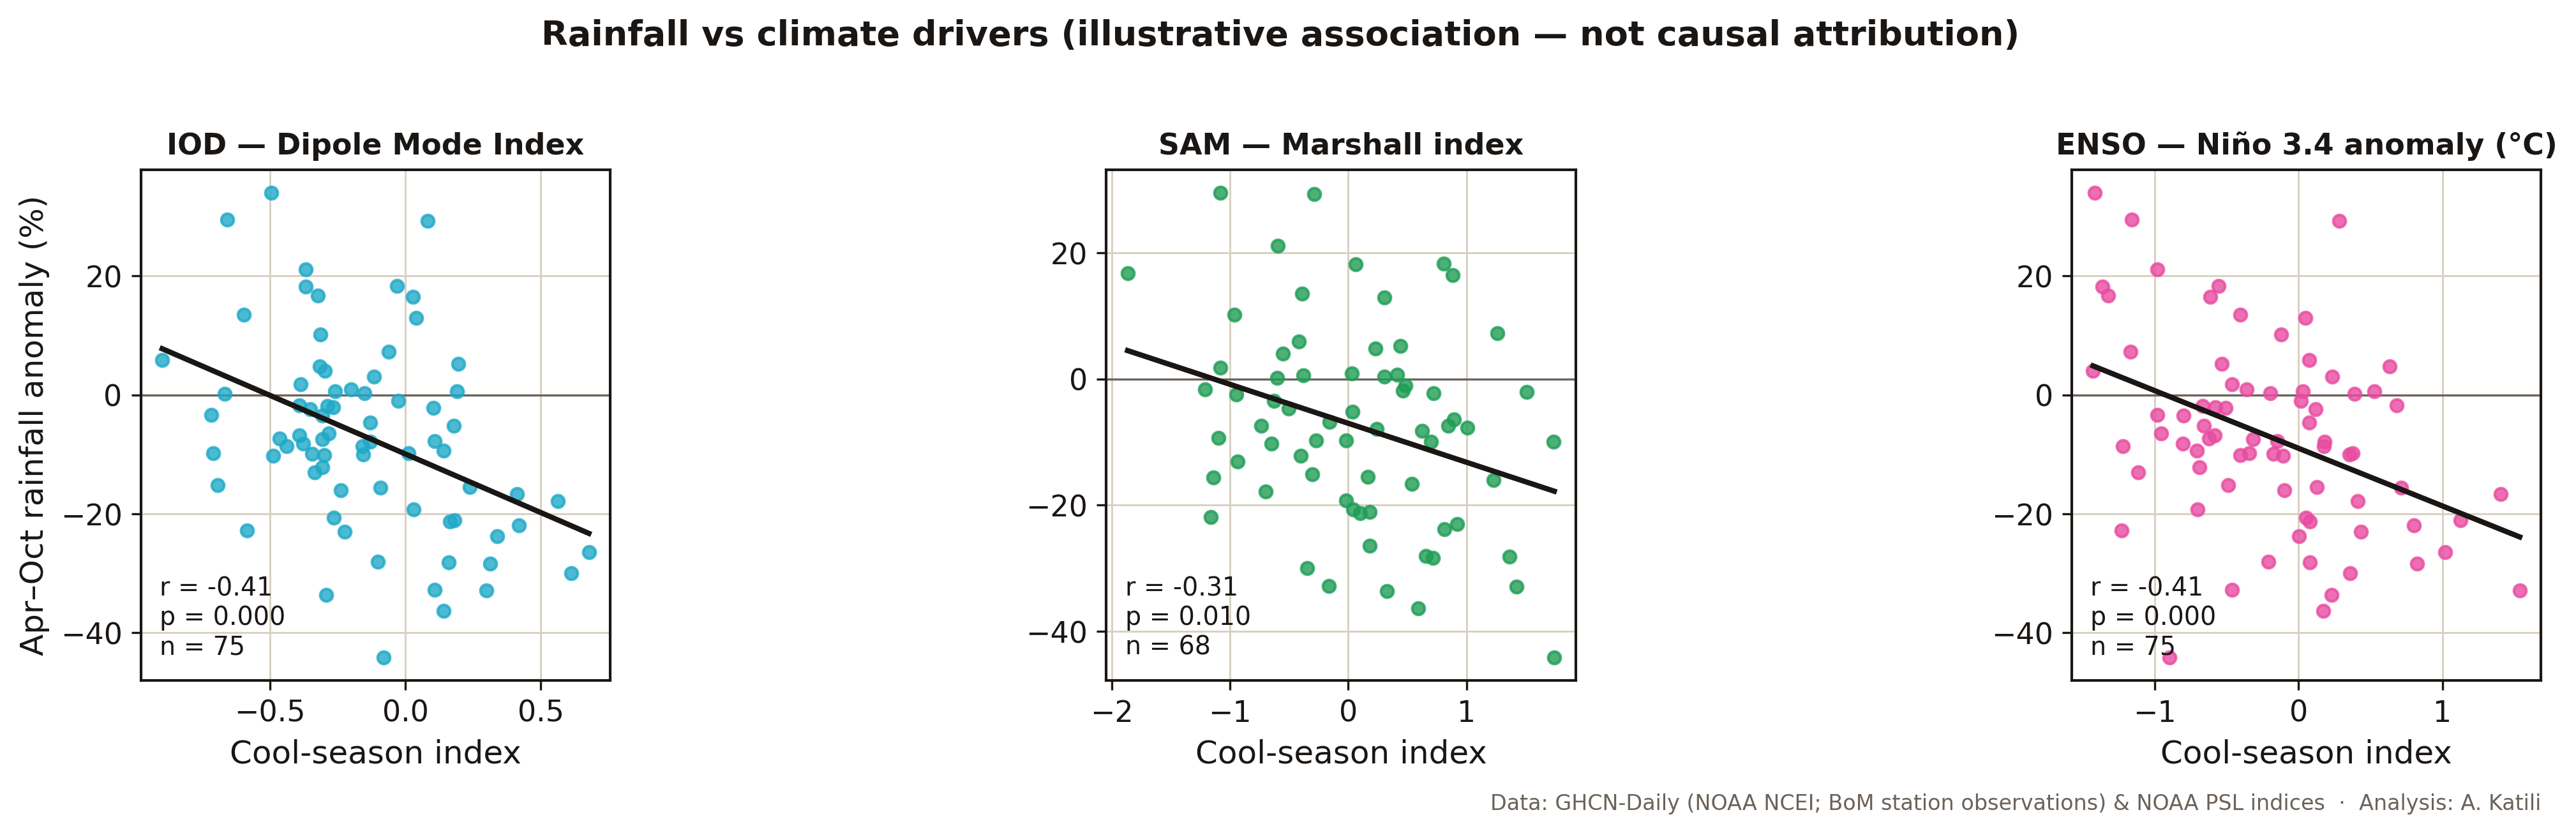
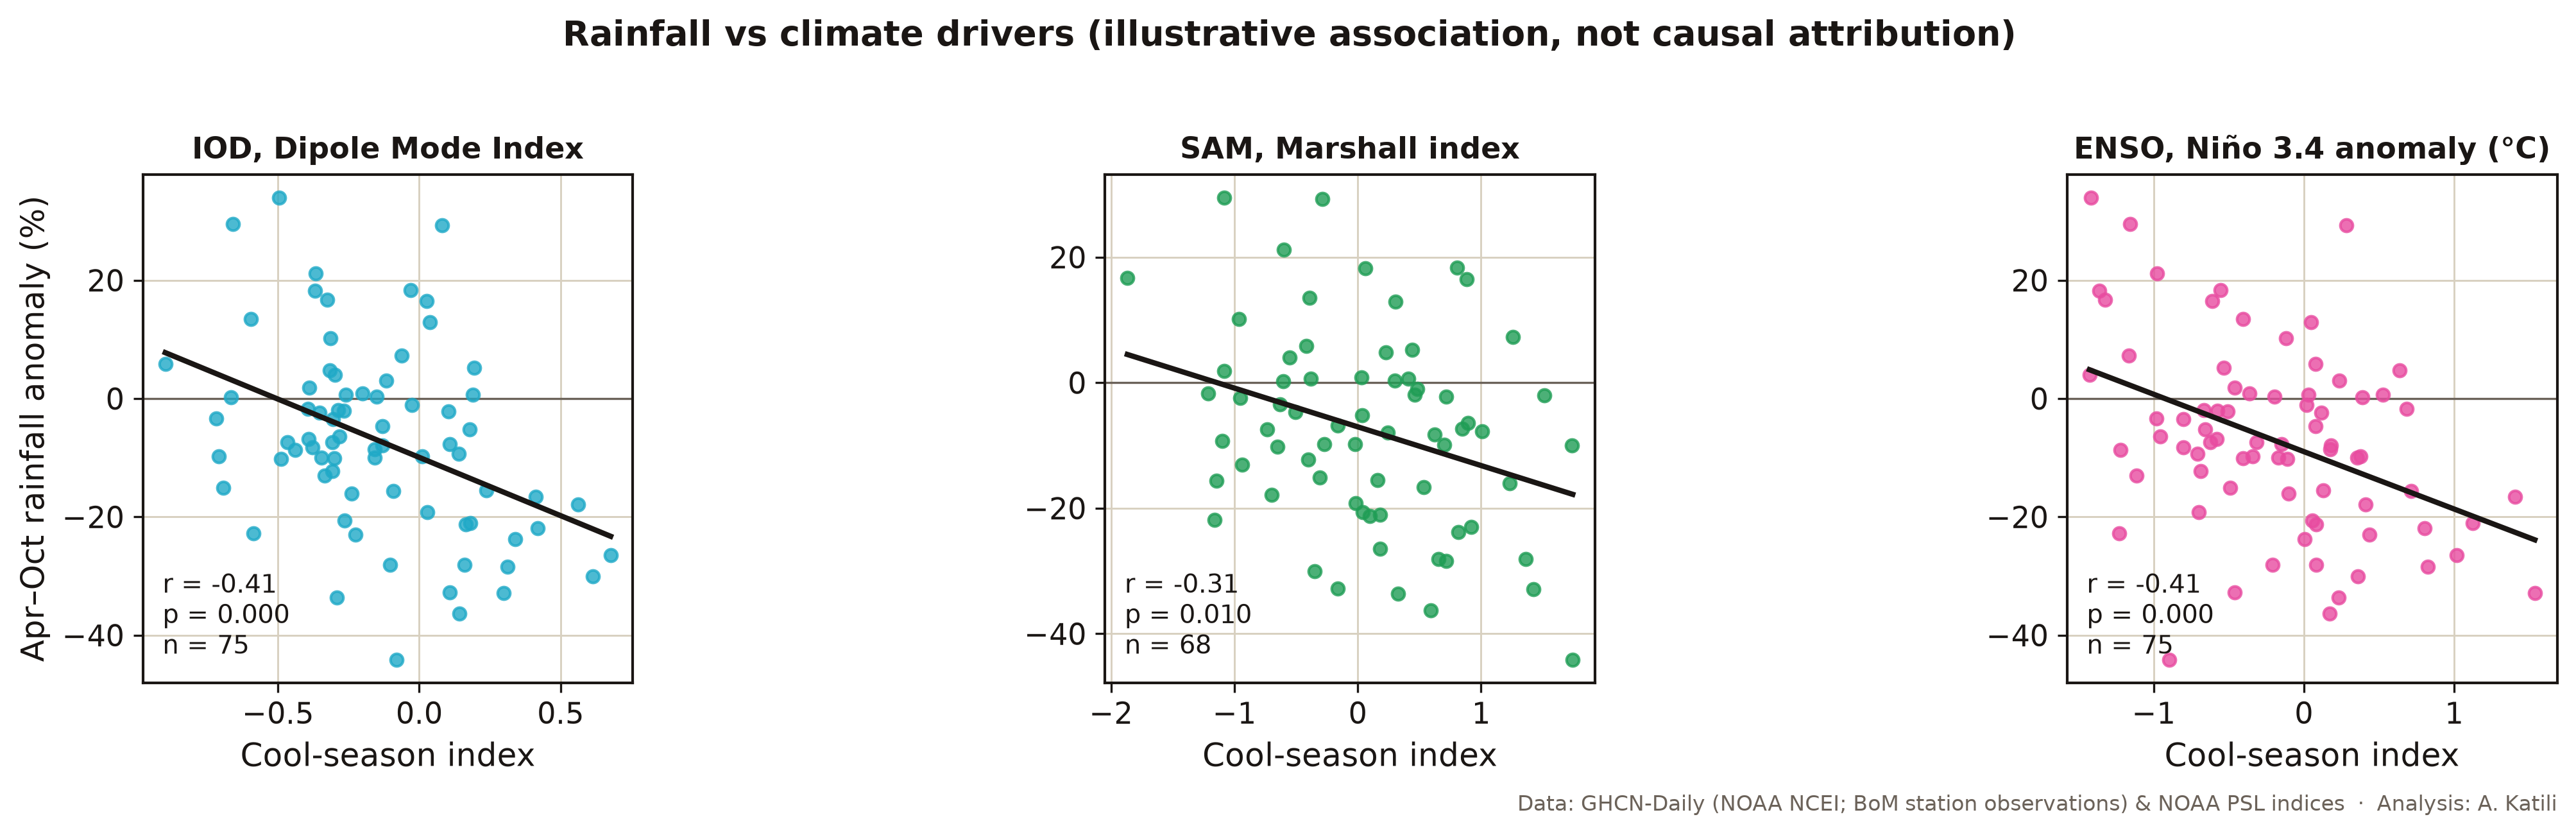
Fix scroll lock and toast, remove work filter, strip em-dashes project-wide, clean references
Address review feedback found after the first pass:

- Fix page scroll lock: the project dialog's effect set body overflow:hidden
  even when no project was open (it ran before the null-guard). Gate it on the
  open project so the index page scrolls normally; lock only while a dialog is
  open and restore on close.
- Fix the stray "oval dot" at the bottom: the empty toast pill was peeking above
  the viewport. Fully hide it (opacity/visibility/pointer-events) until shown.
- Remove the Selected work filter; show the three projects directly.
- Remove every em-dash across the entire project (91 occurrences in 20 files:
  READMEs, briefs, prompts, .py, notebook, txt, .gitignore), and regenerate the
  two charts whose axis labels contained em-dashes (cyclone intensity-by-decade,
  rainfall driver-correlation) from the committed CSVs.
- Clean the cyclone references section: drop the HIGH/MEDIUM confidence tags and
  the hedging, after verifying every citation is real (Bhatia et al. 2019 Nature
  Communications 10:635; Kuleshov et al. 2010 JGR; IBTrACS/Knapp; ERSSTv5/Huang;
  IPCC AR6 WG1 Ch.11; BOM/CSIRO State of the Climate; AASB S2).

Claude-Session: https://claude.ai/code/session_018X842K2eCSriPyrS5zHkVX

diff --git a/js/sections.js b/js/sections.js
@@ -117,23 +117,16 @@
   }
 
   function PWork({ onOpen }) {
-    const [active, setActive] = React.useState("All");
-    const list = active === "All" ? P.projects : P.projects.filter((p) => p.category.includes(active));
     return (
       <section className="section" id="work">
         <div className="wrap">
           <div className="section-head">
             <Eyebrow tick>Selected work</Eyebrow>
             <h2>Projects with measured outcomes.</h2>
-            <p>A sample of climate and sustainability engagements, each grounded in a baseline, a method, and a number you can check.</p>
-          </div>
-          <div className="work__filters">
-            {P.filters.map((f) => (
-              <Tag key={f} onClick={() => setActive(f)} selected={active === f}>{f}</Tag>
-            ))}
+            <p>Three climate and sustainability projects, each grounded in a baseline, a method, and a number you can check.</p>
           </div>
           <div className="work__grid">
-            {list.map((p) => <ProjectCard key={p.id} p={p} onOpen={onOpen} />)}
+            {P.projects.map((p) => <ProjectCard key={p.id} p={p} onOpen={onOpen} />)}
           </div>
         </div>
       </section>
@@ -269,6 +262,7 @@
 
   function PProjectDialog({ project, onClose }) {
     React.useEffect(() => {
+      if (!project) return;
       function onKey(e) { if (e.key === "Escape") onClose(); }
       document.addEventListener("keydown", onKey);
       document.body.style.overflow = "hidden";
@@ -276,7 +270,7 @@
         document.removeEventListener("keydown", onKey);
         document.body.style.overflow = "";
       };
-    }, [onClose]);
+    }, [project, onClose]);
     if (!project) return null;
     const p = project;
     return (

diff --git a/portfolio.css b/portfolio.css
@@ -159,6 +159,6 @@
 .footer__social { display: flex; gap: var(--space-2); }
 
 /* ---------- Toast ---------- */
-.toast { position: fixed; bottom: 24px; left: 50%; transform: translateX(-50%) translateY(120%); background: var(--text-strong); color: #fff; padding: 12px 20px; border-radius: var(--radius-full); font-size: var(--text-sm); font-weight: var(--weight-medium); box-shadow: var(--shadow-xl); display: flex; align-items: center; gap: 8px; z-index: 80; transition: transform var(--duration-base) var(--ease-out); }
-.toast--show { transform: translateX(-50%) translateY(0); }
+.toast { position: fixed; bottom: 24px; left: 50%; transform: translateX(-50%) translateY(160%); background: var(--text-strong); color: #fff; padding: 12px 20px; border-radius: var(--radius-full); font-size: var(--text-sm); font-weight: var(--weight-medium); box-shadow: var(--shadow-xl); display: flex; align-items: center; gap: 8px; z-index: 80; opacity: 0; visibility: hidden; pointer-events: none; transition: transform var(--duration-base) var(--ease-out), opacity var(--duration-base) var(--ease-out), visibility var(--duration-base) var(--ease-out); }
+.toast--show { transform: translateX(-50%) translateY(0); opacity: 1; visibility: visible; pointer-events: auto; }
 .toast svg { color: var(--green-400); }

diff --git a/js/data.js b/js/data.js
@@ -21,7 +21,6 @@
       { label: "Emitters scored", value: "3", caption: "WA ASX majors" },
       { label: "AASB S2 pillars", value: "4", caption: "governance to metrics" },
     ],
-    filters: ["All", "Physical risk", "Climate data", "Disclosure & AASB S2", "Data viz"],
     projects: [
       {
         id: "wa-cyclones",

diff --git a/rainfall-decline/viz.py b/rainfall-decline/viz.py
@@ -1,5 +1,5 @@
 """
-viz.py — publication-quality charts for the SW WA rainfall-decline analysis.
+viz.py: publication-quality charts for the SW WA rainfall-decline analysis.
 
 Self-contained: reads the CSVs in data/ and writes PNGs to charts/ at 300 dpi.
 Uses the Adhi "Hidup" palette so figures match the cyclone-risk project.
@@ -142,9 +142,9 @@ def chart_trend(reg):
 # --- 4. driver correlation ----------------------------------------------------
 def chart_drivers(reg, drivers):
     m = reg.merge(drivers, on="year", how="left")
-    specs = [("dmi_AprOct", "IOD — Dipole Mode Index", SEA),
-             ("sam_AprOct", "SAM — Marshall index", FOREST),
-             ("nino34_AprOct", "ENSO — Niño 3.4 anomaly (°C)", MAWAR)]
+    specs = [("dmi_AprOct", "IOD, Dipole Mode Index", SEA),
+             ("sam_AprOct", "SAM, Marshall index", FOREST),
+             ("nino34_AprOct", "ENSO, Niño 3.4 anomaly (°C)", MAWAR)]
     fig, axes = plt.subplots(1, 3, figsize=(13.5, 4.6))
     for ax, (col, title, c) in zip(axes, specs):
         sub = m[["regional_anom_pct", col]].dropna()
@@ -161,7 +161,7 @@ def chart_drivers(reg, drivers):
                     xycoords="axes fraction", fontsize=9.5, color=INK,
                     va="bottom")
     axes[0].set_ylabel("Apr–Oct rainfall anomaly (%)")
-    fig.suptitle("Rainfall vs climate drivers (illustrative association — not causal attribution)",
+    fig.suptitle("Rainfall vs climate drivers (illustrative association, not causal attribution)",
                  fontsize=13, weight="bold")
     axes[2].annotate(CREDIT, xy=(1.0, -0.22), xycoords="axes fraction",
                      ha="right", va="top", fontsize=8, color=MUTED)

diff --git a/cyclone-risk/analysis.py b/cyclone-risk/analysis.py
@@ -1,5 +1,5 @@
 """
-analysis.py — the four analysis steps as importable functions used by
+analysis.py: the four analysis steps as importable functions used by
 cyclone_analysis.ipynb. Each makes its chart(s) and returns the numbers.
 
 Runs from raw data (data/raw/) when present, otherwise from the committed
@@ -93,7 +93,7 @@ def explore(storms):
     for i, d in enumerate(DECADES):
         ax.annotate(f"Cat 3+: {summary.pct_Cat3plus.iloc[i]:.0f}%", (i+1, 8),
                     ha="center", fontsize=8.5, color=viz.MUTED)
-    ax.set_ylabel("Peak intensity — BOM 10-min sustained wind (knots)")
+    ax.set_ylabel("Peak intensity, BOM 10-min sustained wind (knots)")
     ax.set_xlabel("Decade")
     ax.set_title("WA-affecting cyclone peak intensity by decade (1985–2024)")
     ax.legend(loc="upper right"); ax.set_ylim(0, ax.get_ylim()[1])

diff --git a/cyclone-risk/build_dataset.py b/cyclone-risk/build_dataset.py
@@ -1,5 +1,5 @@
 """
-build_dataset.py — clean IBTrACS South Indian Ocean data for the WA cyclone
+build_dataset.py: clean IBTrACS South Indian Ocean data for the WA cyclone
 analysis and flag WA-affecting systems.
 
 Inputs : data/raw/ibtracs.SI.list.v04r01.csv   (IBTrACS v04r01, SI basin)

diff --git a/cyclone-risk/stats_utils.py b/cyclone-risk/stats_utils.py
@@ -1,5 +1,5 @@
 """
-stats_utils.py — self-contained statistics for the cyclone-risk analysis.
+stats_utils.py: self-contained statistics for the cyclone-risk analysis.
 
 Why this exists: the analysis deliberately depends only on numpy/pandas/
 matplotlib/netCDF4 so it reproduces on any machine without a heavy scientific

diff --git a/cyclone-risk/test_stats.py b/cyclone-risk/test_stats.py
@@ -1,5 +1,5 @@
 """
-test_stats.py — validate stats_utils against known textbook values.
+test_stats.py: validate stats_utils against known textbook values.
 Run: python3 test_stats.py
 These checks are what make the from-scratch statistics trustworthy as a
 substitute for scipy.stats.

diff --git a/cyclone-risk/viz.py b/cyclone-risk/viz.py
@@ -1,5 +1,5 @@
 """
-viz.py — shared chart styling for the cyclone-risk analysis.
+viz.py: shared chart styling for the cyclone-risk analysis.
 Uses the Adhi "Hidup" palette so the figures are consistent across the
 portfolio. Publication settings: 300 dpi, labelled axes, light grid.
 """

diff --git a/rainfall-decline/analysis.py b/rainfall-decline/analysis.py
@@ -1,5 +1,5 @@
 """
-analysis.py — step-change, trend, and driver analysis of the SW WA cool-season
+analysis.py: step-change, trend, and driver analysis of the SW WA cool-season
 rainfall series. Pure numpy/pandas + the hand-rolled, unit-tested stats_utils.
 
 Outputs (data/):

diff --git a/rainfall-decline/build_dataset.py b/rainfall-decline/build_dataset.py
@@ -1,5 +1,5 @@
 """
-build_dataset.py — turn raw GHCN-Daily + climate-index downloads into the clean
+build_dataset.py: turn raw GHCN-Daily + climate-index downloads into the clean
 CSVs the analysis uses.
 
 Data provenance

diff --git a/rainfall-decline/stats_utils.py b/rainfall-decline/stats_utils.py
@@ -1,5 +1,5 @@
 """
-stats_utils.py — self-contained statistics for the adhi-climate analyses (cyclone-risk, rainfall-decline).
+stats_utils.py: self-contained statistics for the adhi-climate analyses (cyclone-risk, rainfall-decline).
 
 Why this exists: the analysis deliberately depends only on numpy/pandas/
 matplotlib/netCDF4 so it reproduces on any machine without a heavy scientific